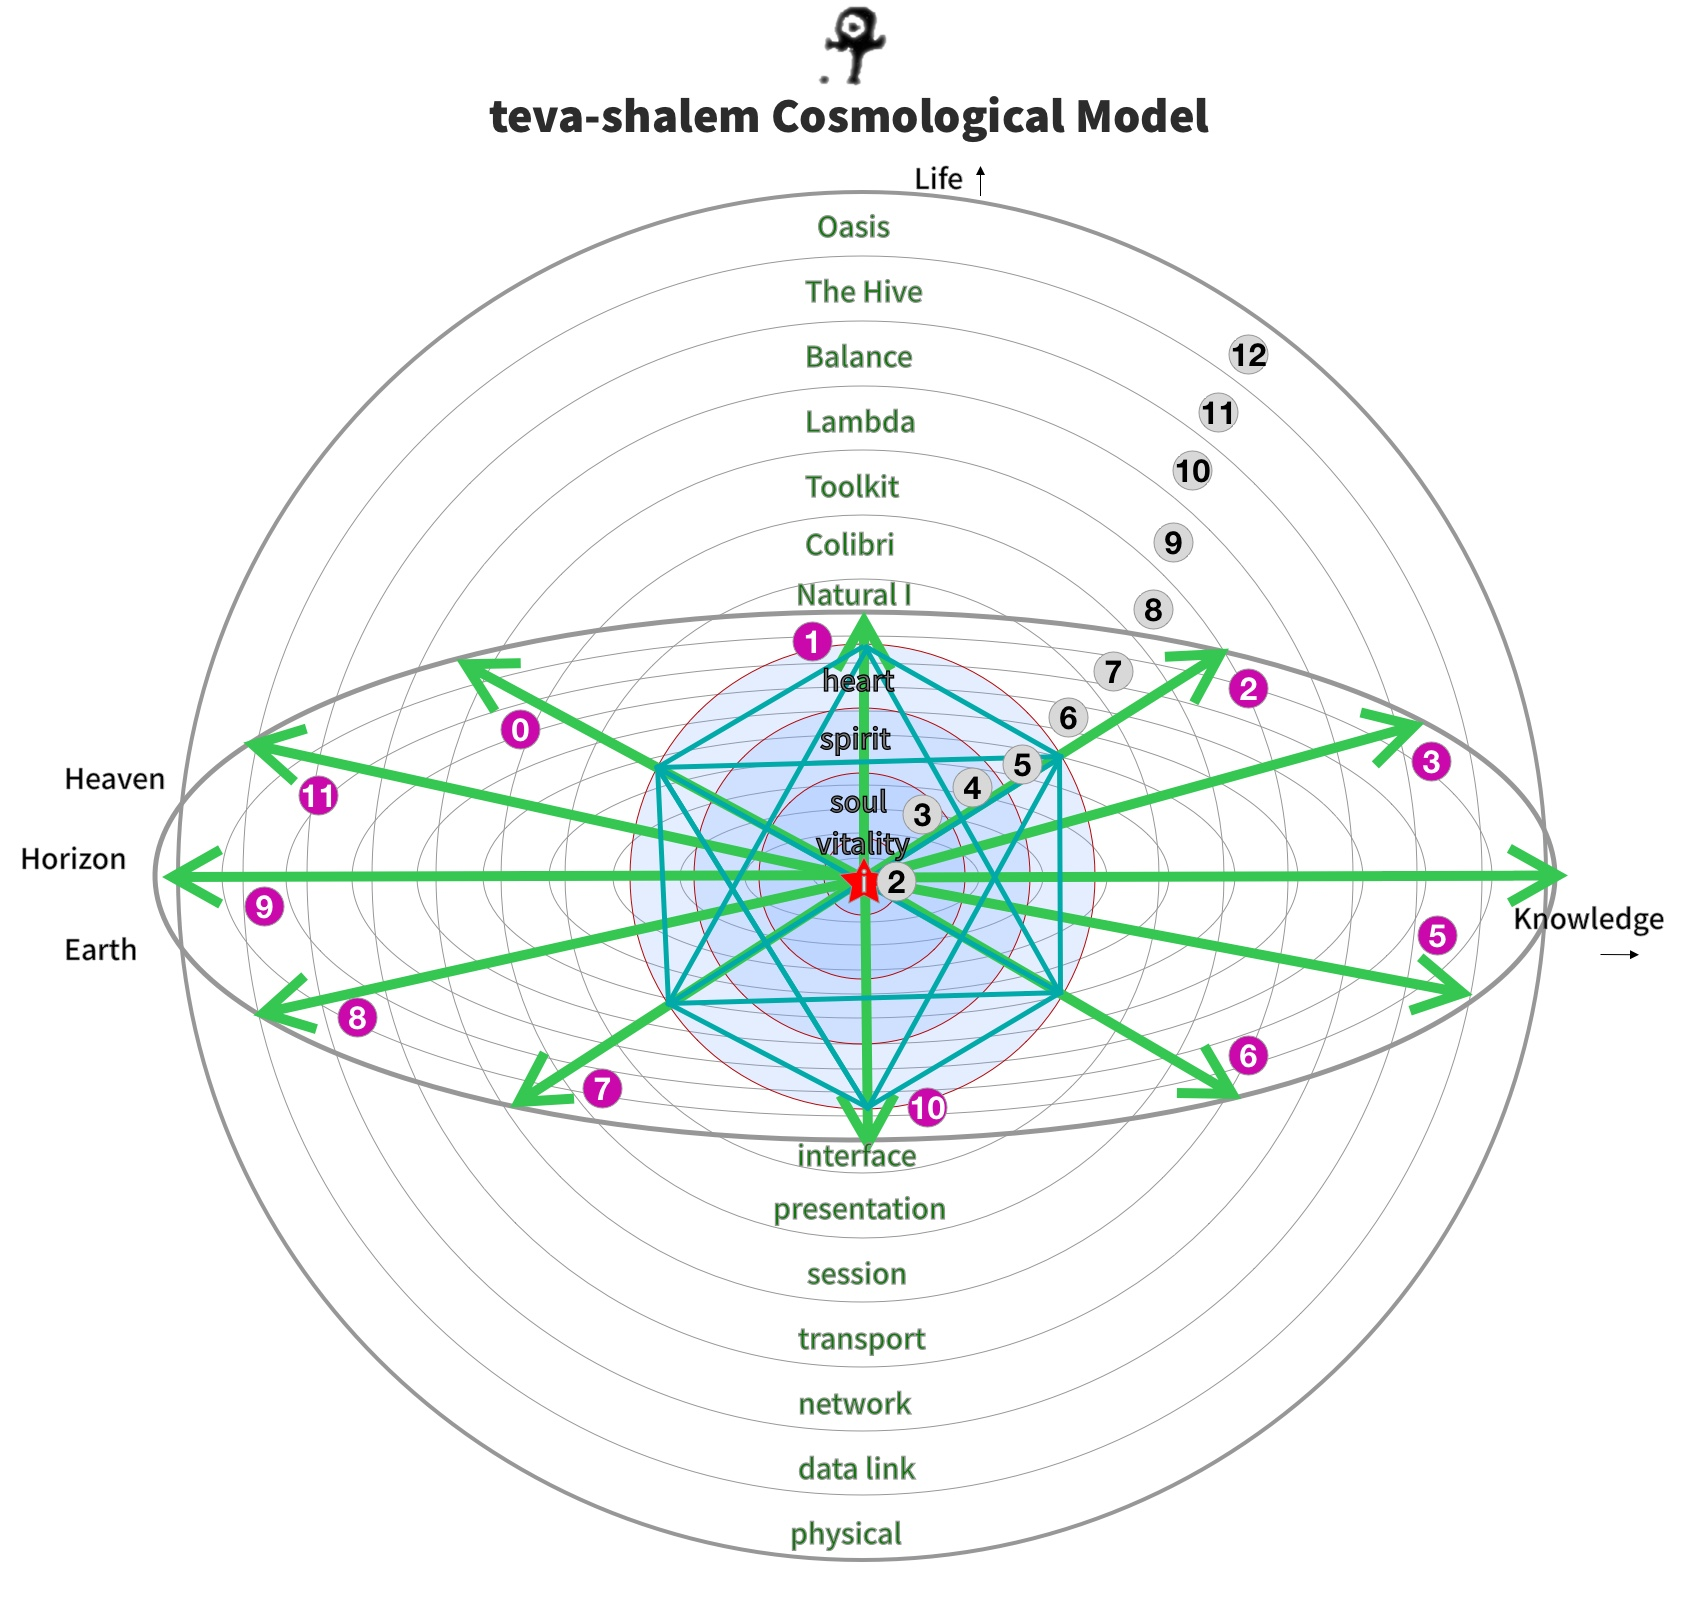
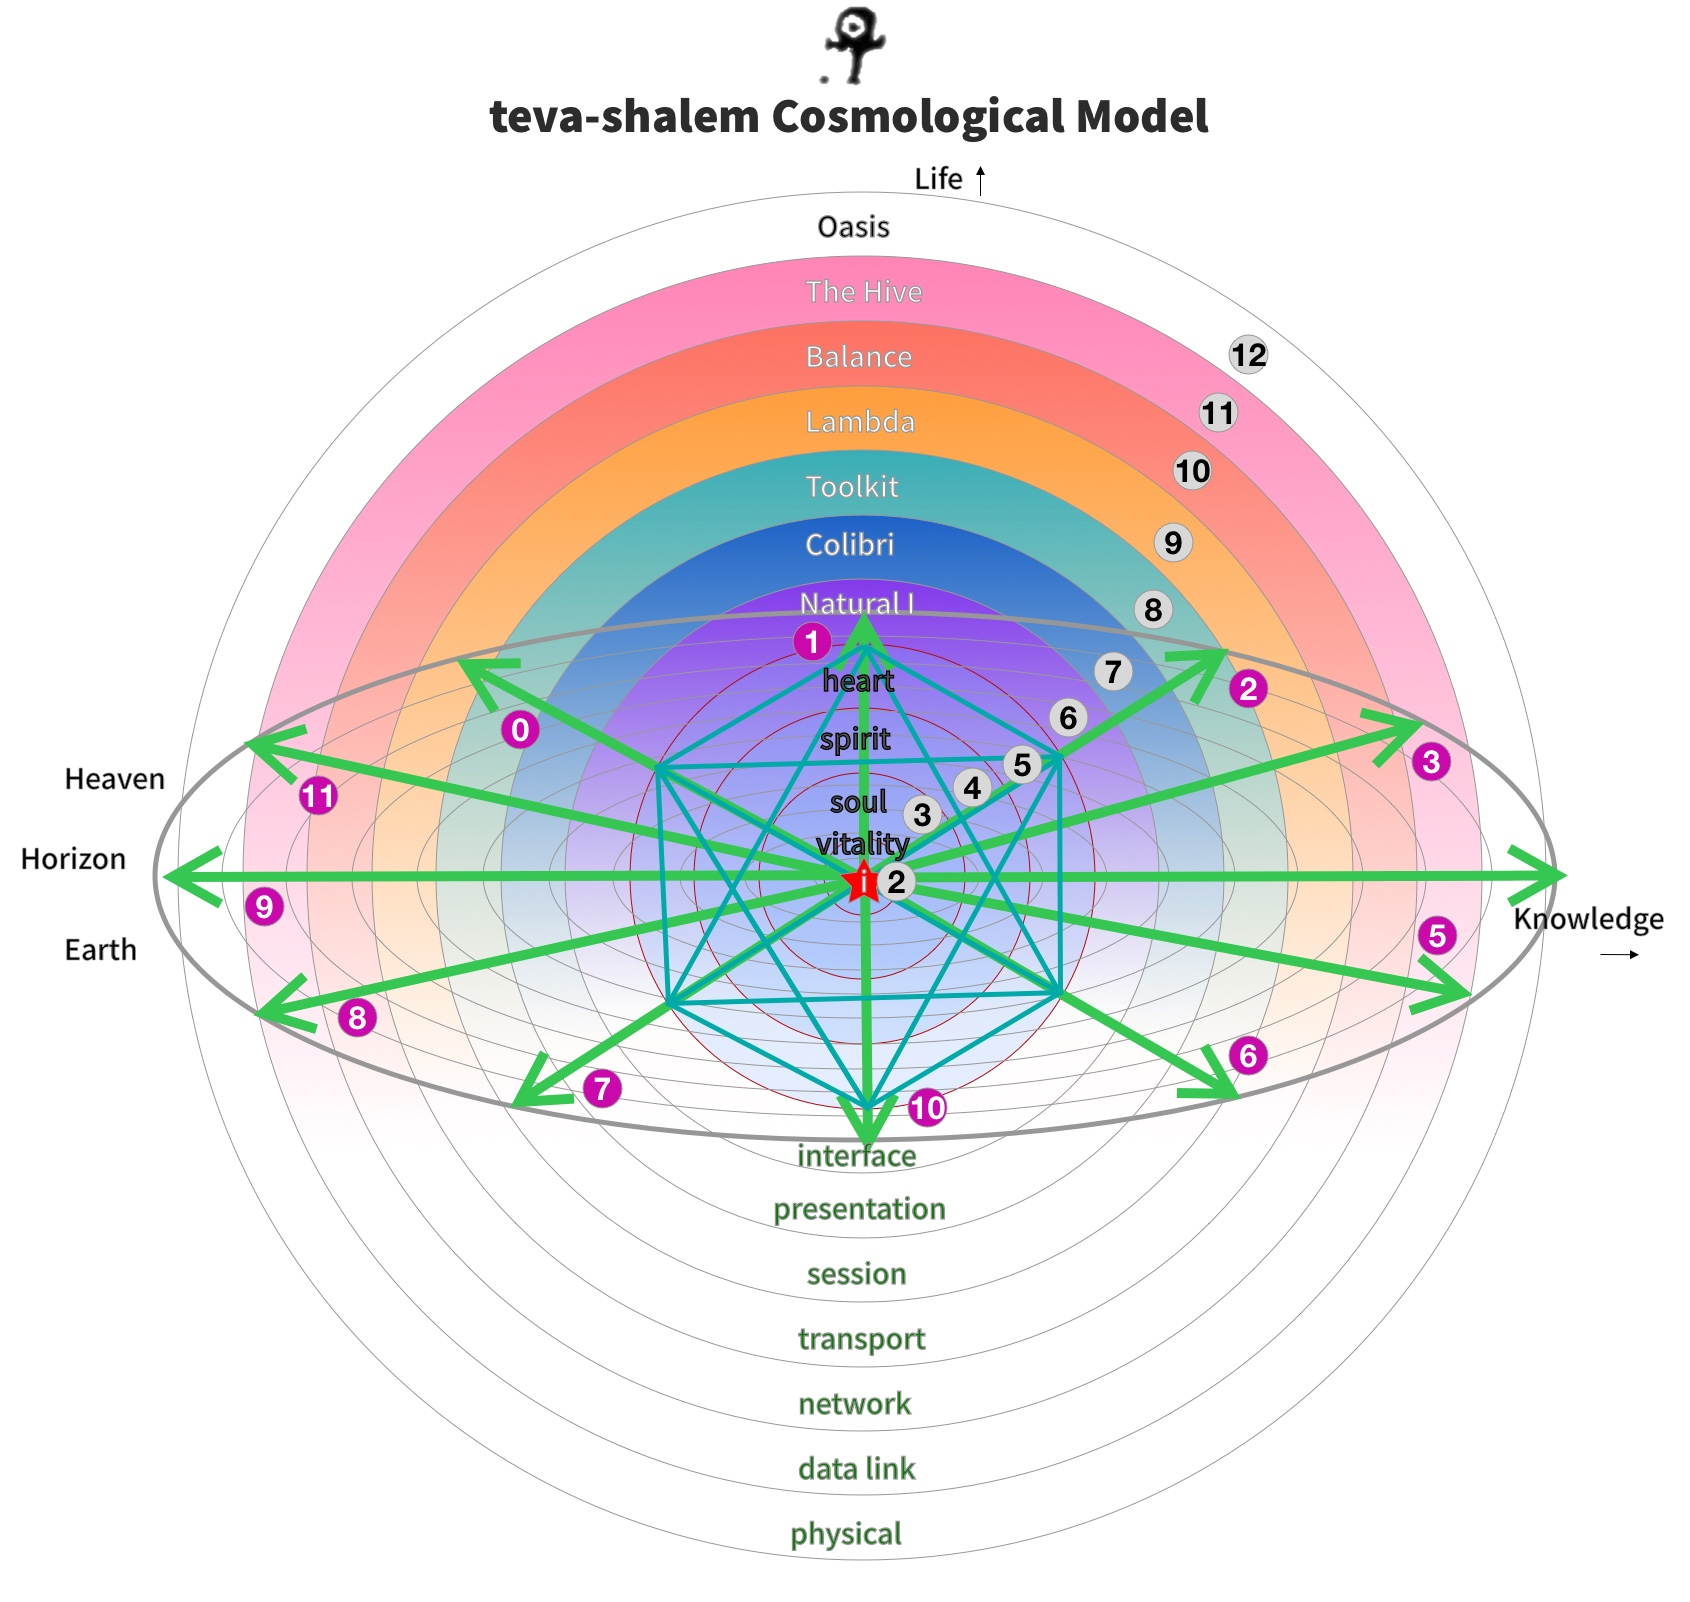
rainbow

Changed region(s): [[0.1231, 0.1248, 0.8923, 0.6554], [0.7692, 0.8427, 0.8, 0.8739], [0.7692, 0.2185, 0.8, 0.2497]]

diff --git a/books/slideshow.md b/books/slideshow.md
@@ -17,6 +17,8 @@ layout: ReadingLayout
 
 המצגת שלפניכם היא תיאור של מסע אבולוציוני ממשבר לצמיחה. מהמשבר של מגפת הקורונה, הקריסה הכלכלית, המשטר המדכא, לכיוון בניית חברה בריאה, שפע, שלטון ישיר, תורת חיים משותפת. הפתרון נמצא באדריכלות ועבודת בנייה של דרך חיים אישית וכללית של האדם והחברה. עיקריה מוצגים לפניכם.
 
+<Img :path="'spacer.png'"></Img>
+
 ## המצב הקיים
 
 ראשית שבע ארצות - כלומר תשתית האינטרנט. 
@@ -25,17 +27,23 @@ layout: ReadingLayout
 
 שבע שכבות של עיבוד והעברת מידע. הפיזי ביותר נמצא בשכבה התחתונה, המסוף לאדם נמצא בשכבה העליונה. הרשת נפתחה לציבור בידי השלטון האמריקאי ונשלטת ברובה ע״י מונופולים. האם ניתן להעביר את הכוח לאזרח הפשוט?
 
+<Img :path="'spacer.png'"></Img>
+
 ## הכפלת הרשת
 
 <Img :path="'layered-model.jpg'"></Img>
 
 האדם נמצא נוגע בשכבה העליונה של התשתית. מעליו נבנות שבע השכבות של המודל השכבתי - טבע שלם - שמטרתן ביצוע חיבורים בכל קנה מידה תוך תהליך [השבת הנפש](/derech-hapeima). תהליך למידה צמיחה והיבנות של אדם חברה ותרבות.
 
+<Img :path="'spacer.png'"></Img>
+
 ## האקוסיסטם
 
 <Img :path="'equation-terra-dynamics.jpg'"></Img>
 
 המשוואה של האקוסיסטם של כדור הארץ מכפילה את המודל השכבתי עם שנים-עשר הבתים של [עץ המלך](/mishvaot-hapeima) ועם שש חברות הבנייה. כל חברת בנייה בונה שכבה במודל הקוסמולוגי ומורכבת משני בתים. עבודת הבנייה הזו בונה ארבע מפלצות-על שהן אתגרי האדם והגשמתו - חברה כלכלה תרבות ותורה - עולמיים המשרתים את האזרח לחיים מיטביים.
+
+<Img :path="'spacer.png'"></Img>
 
 ## מודל קוסמולוגי
 
